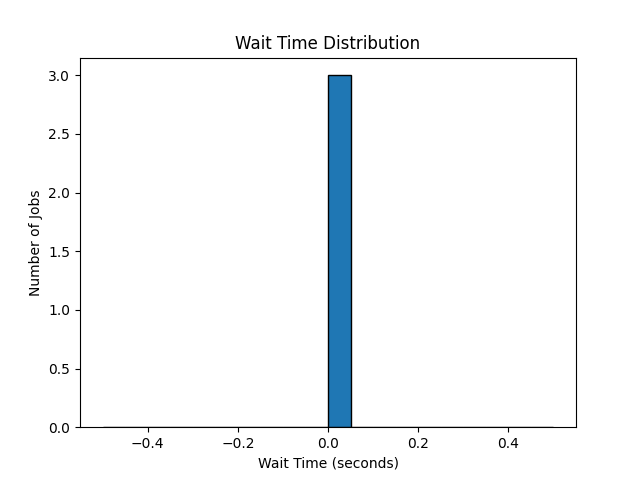
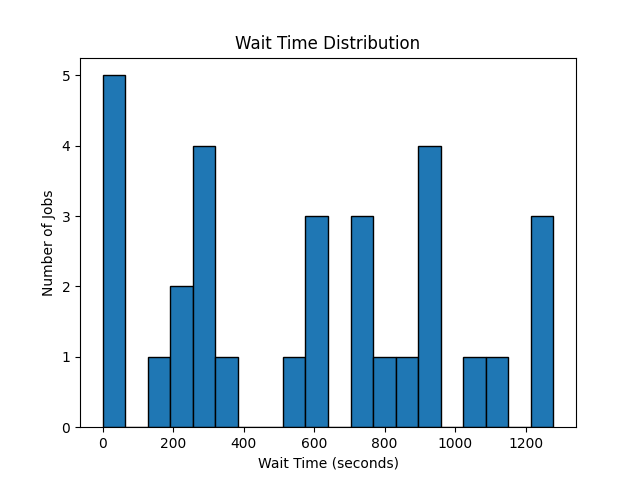
added more statistics

diff --git a/src/jobsim.py b/src/jobsim.py
@@ -3,11 +3,13 @@ from enum import Enum
 import sys
 import argparse
 from workers_model import WorkerPool, WorkerType, WorkerStatus
-from jobgen import JobGenerator, Job
 from time_def import MINUTE, HOUR
 from debug_config import debug_print, set_debug, get_debug
 import matplotlib.pyplot as plt
-from sim_config import CONFIG
+from jobgen import JobGenerator, Job
+from datetime import datetime
+import os
+import sim_config 
 
 
 def parse_duration_hms(value: str) -> int:
@@ -38,6 +40,7 @@ class SimState:
       self.workers_pool = WorkerPool()
       self.pending_jobs: list[Job] = []
       self.completed_jobs: list[Job] = []
+      self.run_name: str | None = None
   
   def get_event_queue(self):
     return self.event_queue
@@ -58,22 +61,32 @@ class SimState:
   def handle_job_submitted(self, job_submitted_time, job) -> None:
     if (worker := self.workers_pool.allocate_ready_worker()) is not None:
       job.set_start_execution_time(job_submitted_time)
+      job.set_server_type(worker.get_worker_type())
+      job.set_server_id(worker.get_worker_id())
       self.completed_jobs.append(job)
       self.event_queue.push(job_submitted_time + job.get_execution_duration(), EventType.WORKER_DONE, worker)
+      debug_print(f"{job_submitted_time}: Job submitted: {job} by worker {worker}")
     else:
       self.pending_jobs.append(job)
+      debug_print(f"{job_submitted_time}: Job pending: {job}")
       if (worker := self.workers_pool.invoke_worker()) is not None:
-        self.event_queue.push(job_submitted_time + worker.get_worker_activation_time(), EventType.WORKER_TO_POOL, worker)
+        self.event_queue.push(job_submitted_time + worker.get_worker_activation_time(), EventType.WORKER_READY, worker)
+        debug_print(f"{job_submitted_time}: Invoking worker: {worker}")
 
   def handle_worker_ready(self, worker_ready_time, worker) -> None:
     worker.set_worker_status(WorkerStatus.READY)
+    debug_print(f"{worker_ready_time}: Worker ready: {worker}")
     if self.pending_jobs:
-      self.handle_job_submitted(worker_ready_time, self.pending_jobs.pop(0))
+      job = self.pending_jobs.pop(0)
+      self.handle_job_submitted(worker_ready_time, job)
+      debug_print(f"{worker_ready_time}: Job submitted: {job} by worker {worker}")
     else:
       self.event_queue.push(worker_ready_time + worker.get_worker_shutdown_time(), EventType.WORKER_TO_POOL, worker)
+      debug_print(f"{worker_ready_time}: Sending Worker to pool: {worker}")
 
   def handle_worker_to_pool(self, worker_to_pool_time, worker) -> None:
     worker.set_worker_status(WorkerStatus.IN_POOL)
+    debug_print(f"{worker_to_pool_time}: Worker to pool: {worker}")
 
   def run(self):
     while not self.event_queue.is_empty():
@@ -81,65 +94,119 @@ class SimState:
       event_time = event.timestamp
       if event.event_type == EventType.JOB_SUBMITTED:
         self.handle_job_submitted(event.timestamp, event.data)
-        debug_print(f"{event_time}: Job submitted: {event.data}")
       elif event.event_type == EventType.WORKER_READY:
         self.handle_worker_ready(event.timestamp, event.data)
-        debug_print(f"{event_time}: Worker ready: {event.data}")
       elif event.event_type == EventType.WORKER_DONE:
         self.handle_worker_ready(event.timestamp, event.data)
-        debug_print(f"{event_time}: Worker done: {event.data}")
       elif event.event_type == EventType.WORKER_TO_POOL:
         self.handle_worker_to_pool(event.timestamp, event.data)
-        debug_print(f"{event_time}: Worker to pool: {event.data}")
 
+  def create_submission_time_distribution(self, run_label, suffix) -> None:
+    types = sorted({j.get_type() for j in self.completed_jobs})
+    sub_by_type = [[j.get_submission_time() for j in self.completed_jobs if j.get_type() == t] for t in types]
+    
+    if plt:
+      plt.hist(sub_by_type, bins=20, stacked=True, label=types, edgecolor='black')
+      plt.xlabel('Submission Time (seconds)')
+      plt.ylabel('Number of Jobs')
+      plt.title(f'Submission Time Distribution{run_label}')
+      plt.legend(title='Job Type')
+      plt.savefig(f'submission_time_distribution{suffix}.png')
+      plt.show()
+      plt.clf()
+    
+  def create_worker_use_time_distribution(self, run_label, suffix) -> None:
+    types = sorted({j.get_server_type() for j in self.completed_jobs if j.get_server_type() is not None},
+    key=lambda t: t.value)
+    labels = [t.value for t in types]
+    use_by_type = [[j.get_start_execution_time() - j.get_submission_time() for j in self.completed_jobs if j.get_server_type() == t] for t in types]
+    if plt:
+      plt.hist(use_by_type, bins=20, stacked=True, label=labels, edgecolor='black')
+      plt.xlabel('Worker Use Time (seconds)')
+      plt.ylabel('Number of Jobs')
+      plt.title(f'Worker Use Time Distribution{run_label}')
+      plt.legend(title='Worker Type')
+      plt.savefig(f'worker_use_time_distribution{suffix}.png')
+      plt.show()
+      plt.clf()
+  
+  def create_wait_time_distribution(self, run_label, suffix) -> None:
+    types = sorted({j.get_type() for j in self.completed_jobs}) 
+    wait_by_type = [[j.get_start_execution_time() - j.get_submission_time()
+                      for j in self.completed_jobs if j.get_type() == t] for t in types]
+    if plt:
+      plt.hist(wait_by_type, bins=20, stacked=True, label=types, edgecolor='black')
+      plt.xlabel('Wait Time (seconds)')
+      plt.ylabel('Number of Jobs')
+      plt.title(f'Wait Time Distribution{run_label}')
+      plt.legend(title='Job Type')
+      plt.savefig(f'wait_time_distribution{suffix}.png')
+      plt.show()
+      plt.clf()
+  
+  def print_wait_times(self) -> None:
+    wait_times = [j.get_start_execution_time() - j.get_submission_time()
+      for j in self.completed_jobs]
+    if wait_times:
+      print(f"Min Wait Time: {min(wait_times):.1f} sec")
+      print(f"Avg Wait Time: {sum(wait_times)/len(wait_times):.1f} sec")
+      print(f"Max Wait Time: {max(wait_times):.1f} sec")
+  
+  def print_workers_used(self) -> None:
+    worker_types = sorted(
+      {j.get_server_type() for j in self.completed_jobs if j.get_server_type() is not None},
+      key=lambda t: t.value
+    )
+    for wt in worker_types:
+      distinct_ids = {j.get_server_id() for j in self.completed_jobs if j.get_server_type() == wt}
+      print(f"Workers used ({wt.value}): {len(distinct_ids)}")
+  
   def print_statistics(self) -> None:
+    run_label = f" [{self.run_name}]" if getattr(self, "run_name", None) else ""
+    suffix = f"_{self.run_name}" if getattr(self, "run_name", None) else ""
     print(f"Queue size: {self.event_queue.size()}")
     print(f"Queue: {self.event_queue}")
     debug_print(f"Completed jobs: {self.completed_jobs}")
-
-    submission_times = [j.get_submission_time() for j in self.completed_jobs]
-    wait_times = [j.get_start_execution_time() - j.get_submission_time() for j in self.completed_jobs]
-    debug_print(f"Wait times: {wait_times}")
-
-    print(f"Simulated {len(self.completed_jobs)} jobs")
-    print(f"Min Wait Time: {min(wait_times):.1f} sec")
-    print(f"Avg Wait Time: {sum(wait_times)/len(wait_times):.1f} sec")
-    print(f"Max Wait Time: {max(wait_times):.1f} sec")
-
-    plt.hist(submission_times, bins=20, edgecolor='black')
-    plt.xlabel('Submission Time (seconds)')
-    plt.ylabel('Number of Jobs')
-    plt.title('Submission Time Distribution')
-    plt.savefig('submission_time_distribution.png')
-    plt.clf()
-
-    plt.hist(wait_times, bins=20, edgecolor='black')
-    plt.xlabel('Wait Time (seconds)')
-    plt.ylabel('Number of Jobs')
-    plt.title('Wait Time Distribution')
-    plt.savefig('wait_time_distribution.png')
-    plt.show()
+    print(f"Run{run_label}: Simulated {len(self.completed_jobs)} jobs")
+    self.print_wait_times()
+    self.print_workers_used()
+    self.create_submission_time_distribution(run_label, suffix)
+    self.create_worker_use_time_distribution(run_label, suffix)
+    self.create_wait_time_distribution(run_label, suffix)
     return
 
 #run main
 if __name__ == "__main__":
-  # Parse CLI duration H:M:S and set simulation duration
+  # Parse CLI duration H:M:S and optional config
   parser = argparse.ArgumentParser(description="JobSim - job execution simulation")
   parser.add_argument("duration", type=parse_duration_hms, help="Simulation time in H:M:S (e.g., 1:30:00)")
   parser.add_argument("--debug", "-debug", action="store_true", help="Enable debug output")
+  parser.add_argument("--config", "-c", metavar="FILE", help="Load simulation configuration from JSON file")
+  parser.add_argument("--run-name", "-n", metavar="NAME", help="Name of this simulation run (used in outputs)")
   args = parser.parse_args()
 
   set_debug(args.debug)
   debug_print("JobSim starting...")
 
   sim_duration = args.duration
+  # Load config if provided and create generator with it
+  from sim_config import load_config, CONFIG
+  if args.config:
+    load_config(args.config)
   job_generator = JobGenerator()
+
   sim_state = SimState()
+  # Precedence: explicit run-name > config filename > timestamp, and always append sim-<seconds>
+  base_name = (
+    args.run_name
+    or (os.path.splitext(os.path.basename(args.config))[0] if args.config else None)
+    or datetime.now().strftime("%Y-%m-%d--%H-%M-%S")
+  )
+  sim_state.run_name = f"{base_name}-sim-{sim_duration}"
   sim_state.init_jobs_in_queue(job_generator.generate_jobs(0, sim_duration))
   #Create the event queue and initialize jobs
   print(f"Simulation duration: {sim_duration} seconds")
   print(f"Queue size: {sim_state.event_queue.size()}")
   print(f"Queue: {sim_state.event_queue}")
-  # sys.exit()
   sim_state.run()
   sim_state.print_statistics()

diff --git a/src/jobgen.py b/src/jobgen.py
@@ -5,25 +5,10 @@ import random
 import json
 import argparse
 from time_def import MINUTE, HOUR
-from sim_config import CONFIG
-
-
-# Job types: S - small, M - medium, L - large
-#JOB_TYPES = ['S'] * 10 + ['M'] * 70 + ['L'] * 20 # fixed ratios
-#random.shuffle(JOB_TYPES)
-
-# JOB_DURATIONS = {'S': 10 * MINUTE, 'M': 40 * MINUTE, 'L': 90 * MINUTE}
-# JOB_EXECUTION_DURATIONS = {'S': 1 * MINUTE, 'M': 4 * MINUTE, 'L': int(6.5 * MINUTE)}
-
-#Users Types (subscription types) F - free, C - creator S - studio
-# USER_TYPES = ['F'] * 10 + ['C'] * 70 + ['S'] * 20
-# random.shuffle(USER_TYPES)
-# USER_ALLOWED_JOBS = {'F': 1, 'C': 2, 'S': 6}
-# # Users requests per hour
-# LAMBDA_USERS_REQUESTS_PER_HOUR = 20
+import sim_config
 
 def generate_interarrival_time() -> int:
-  return int(random.expovariate(CONFIG.lambda_users_requests_per_hour / HOUR))
+  return int(random.expovariate(sim_config.CONFIG.lambda_users_requests_per_hour / HOUR))
 
 def parse_duration_hms(value: str) -> int:
   parts = value.split(":")
@@ -44,6 +29,8 @@ class Job:
     self.user_type = user_type
     self.submission_time = submission_time
     self.start_execution_time = start_execution_time
+    self.server_type = None
+    self.server_id = None
 
   def to_dict(self):
     return {
@@ -51,20 +38,21 @@ class Job:
       'type': self.type,
       'user_type': self.user_type,
       'submission_time': self.submission_time,
-      'start_execution_time': self.start_execution_time
+      'start_execution_time': self.start_execution_time,
+      'server_type': self.server_type
     }
 
   def to_json(self):
     return json.dumps(self.to_dict())
 
   def __str__(self):
-    return f"Job(id={self.id}, type={self.type}, user_type={self.user_type}, submission_time={self.submission_time}, start_execution_time={self.start_execution_time})"
+    return f"Job(id={self.id}, type={self.type}, user_type={self.user_type}, submission_time={self.submission_time}, start_execution_time={self.start_execution_time}, server_type={self.server_type}, server_id={self.server_id})"
 
   def __repr__(self):
     return self.__str__()
 
   def get_execution_duration(self):
-    return CONFIG.get_job_execution_duration(self.type)
+    return sim_config.CONFIG.get_job_execution_duration(self.type)
 
   def get_user_type(self):
     return self.user_type
@@ -84,6 +72,18 @@ class Job:
   def set_start_execution_time(self, start_execution_time: int):
     self.start_execution_time = start_execution_time
   
+  def set_server_type(self, server_type: str):
+    self.server_type = server_type
+  
+  def get_server_type(self):
+    return self.server_type
+  
+  def set_server_id(self, server_id: int):
+    self.server_id = server_id
+  
+  def get_server_id(self):
+    return self.server_id
+  
 class JobGenerator:
   def __init__(self):
     self.user_type_index = 0
@@ -92,7 +92,7 @@ class JobGenerator:
     self.jobs: list[Job] = []
 
   def generate_job(self, user_request_time: int, user_type: str) -> Job:
-    job_type = CONFIG.job_types[self.job_type_index % len(CONFIG.job_types)]
+    job_type = sim_config.CONFIG.job_types[self.job_type_index % len(sim_config.CONFIG.job_types)]
     self.job_type_index += 1
     job = Job(
       id=self.job_id,
@@ -103,9 +103,9 @@ class JobGenerator:
     return job
 
   def handle_user_request(self, user_request_time: int) -> None:
-    user_type = CONFIG.user_types[self.user_type_index % len(CONFIG.user_types)]
+    user_type = sim_config.CONFIG.user_types[self.user_type_index % len(sim_config.CONFIG.user_types)]
     self.user_type_index += 1
-    num_jobs = random.randint(1, CONFIG.get_num_jobs(user_type))
+    num_jobs = random.randint(1, sim_config.CONFIG.get_num_jobs(user_type))
     for _ in range(num_jobs):
       self.jobs.append(self.generate_job(user_request_time, user_type))
   

diff --git a/src/workers_model.py b/src/workers_model.py
@@ -3,7 +3,8 @@ import json
 import argparse
 from enum import Enum
 from typing import Optional
-from sim_config import CONFIG
+import sim_config
+from debug_config import debug_print
 
 #Time constants
 MINUTE = 60
@@ -60,9 +61,9 @@ class Worker:
     if self.worker_type == WorkerType.STANDBY:
       return 0
     elif self.worker_type == WorkerType.DEALLOCATED:
-      return CONFIG.worker_allocate_time
+      return sim_config.CONFIG.worker_allocate_time
     elif self.worker_type == WorkerType.COLD:
-      return CONFIG.worker_startup_time
+      return sim_config.CONFIG.worker_startup_time
 
   def get_worker_shutdown_time(self):
     if self.worker_type == WorkerType.STANDBY:
@@ -70,23 +71,25 @@ class Worker:
     elif self.worker_type == WorkerType.DEALLOCATED:
       return 0
     elif self.worker_type == WorkerType.COLD:
-      return CONFIG.worker_shutdown_time
+      return sim_config.CONFIG.worker_shutdown_time
 
 class WorkerPool:
   def __init__(self):
     self.workers: list[Worker] = []
     worker_idx = 0
-    for _ in range(CONFIG.standby_workers):
+    debug_print(f"Initializing WorkerPool with {sim_config.CONFIG.standby_workers} standby workers, {sim_config.CONFIG.max_deallocated_workers} deallocated workers, and {sim_config.CONFIG.max_cold_workers} cold workers") 
+    for _ in range(sim_config.CONFIG.standby_workers):
       worker = Worker(WorkerType.STANDBY, worker_idx)
       worker.set_worker_status(WorkerStatus.READY)
       self.workers.append(worker)
       worker_idx += 1
-    for _ in range(CONFIG.max_deallocated_workers):
+    for _ in range(sim_config.CONFIG.max_deallocated_workers):
       self.workers.append(Worker(WorkerType.DEALLOCATED, worker_idx))
       worker_idx += 1
-    for _ in range(CONFIG.max_cold_workers):
+    for _ in range(sim_config.CONFIG.max_cold_workers):
       self.workers.append(Worker(WorkerType.COLD, worker_idx))
       worker_idx += 1
+    debug_print(f"WorkerPool initialized: {self.workers}")
 
   def add_worker(self, worker: Worker):
     self.workers.append(worker)

diff --git a/src/sim_config.py b/src/sim_config.py
@@ -3,6 +3,7 @@ import os
 from dataclasses import dataclass, asdict, field
 from typing import List
 import random
+from debug_config import debug_print
 
 @dataclass
 class JobDefinition:
@@ -19,9 +20,9 @@ class UserDefinition:
 @dataclass
 class SimulationConfig:
     job_definitions: List[JobDefinition] = field(default_factory=lambda: [
-        JobDefinition(job_type="S", job_execution_duration=10, job_probability=10),
-        JobDefinition(job_type="M", job_execution_duration=40, job_probability=70),
-        JobDefinition(job_type="L", job_execution_duration=90, job_probability=20),
+        JobDefinition(job_type="S", job_execution_duration=22, job_probability=10),
+        JobDefinition(job_type="M", job_execution_duration=252, job_probability=70),
+        JobDefinition(job_type="L", job_execution_duration=385, job_probability=20),
     ])
     user_definitions: List[UserDefinition] = field(default_factory=lambda: [
         UserDefinition(user_type="F", user_probability=10, num_jobs=1),
@@ -122,6 +123,8 @@ def load_config(filepath: str):
     """Load and overwrite the global CONFIG from a file."""
     global CONFIG
     CONFIG = SimulationConfig.load_from_json(filepath)
+    debug_print(f"Loaded config from {filepath}")
+    debug_print(json.dumps(CONFIG.to_full_dict(), indent=4))
 
 
 def save_config(filepath: str):
